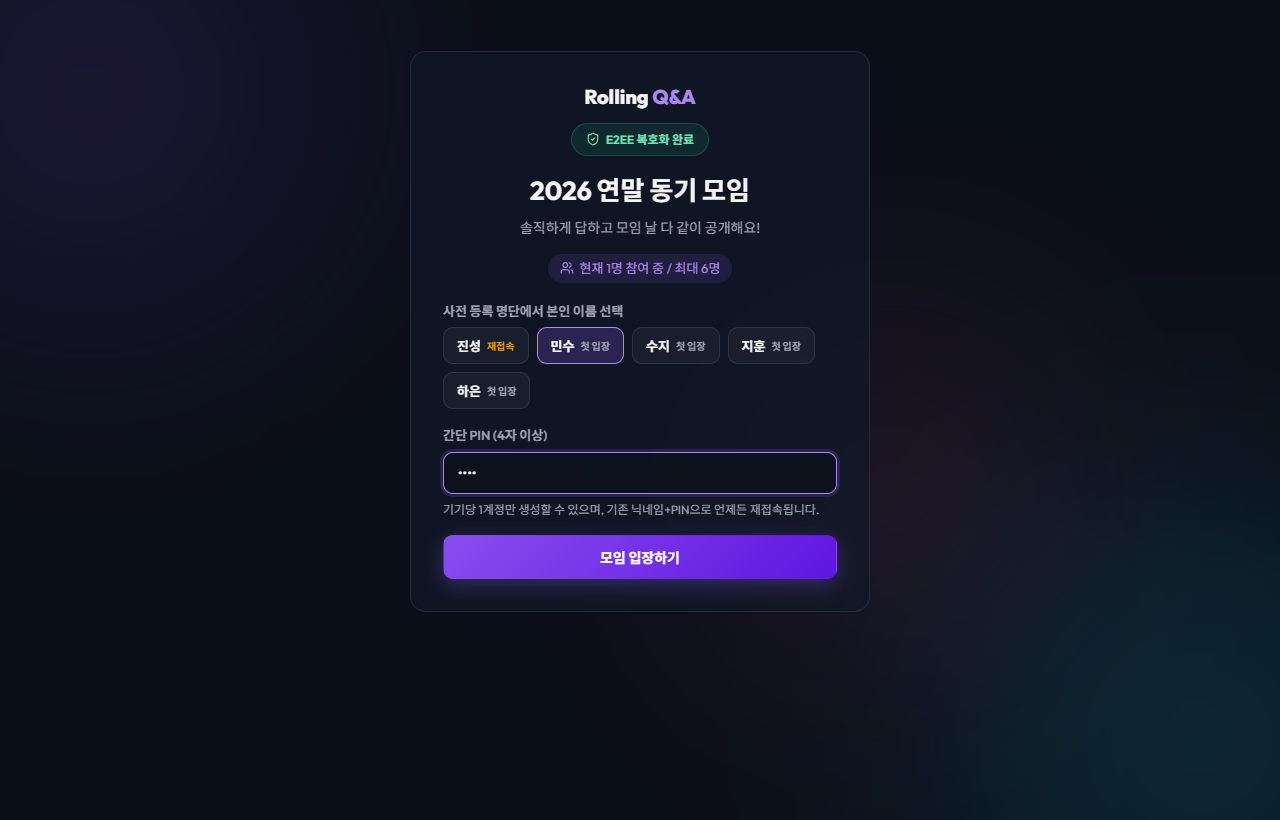
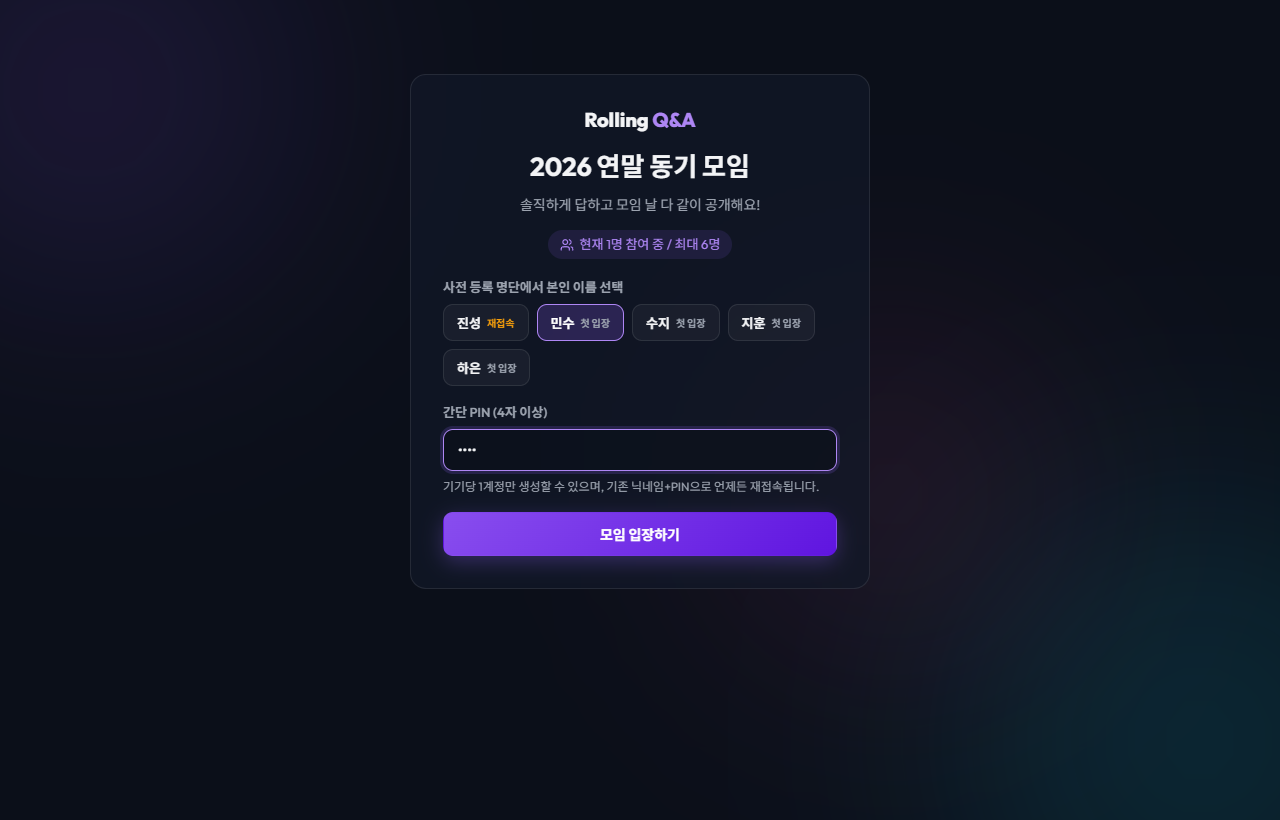
style: 불필요한 E2EE 상단 배지 제거 및 README 스크린샷 갱신

Changed region(s): [[0.3438, 0.0915, 0.6562, 0.7317]]

diff --git a/client/src/pages/RoomPage.jsx b/client/src/pages/RoomPage.jsx
@@ -380,9 +380,6 @@ export default function RoomPage() {
                     <button type="button" className="logo-btn auth-logo" onClick={() => navigate('/')}>
                         Rolling <span className="accent-text">Q&A</span>
                     </button>
-                    <div className="hero-badge" style={{ marginBottom: 14 }}>
-                        <ShieldCheck size={14} /> E2EE 복호화 완료
-                    </div>
                     <h1 className="join-room-title">{meta.title}</h1>
                     {meta.description && <p className="card-desc">{meta.description}</p>}
                     <p className="member-count-hint">
@@ -488,9 +485,6 @@ export default function RoomPage() {
                     >
                         Rolling <span className="accent-text">Q&A</span>
                     </button>
-                    <span className="e2ee-pill" title="종단간 암호화 적용 중">
-                        <ShieldCheck size={13} /> E2EE
-                    </span>
                 </div>
 
                 <div className="header-right">

diff --git a/client/src/pages/HomePage.jsx b/client/src/pages/HomePage.jsx
@@ -101,9 +101,6 @@ export default function HomePage() {
     return (
         <div className="home-wrapper">
             <div className="hero-brand">
-                <div className="hero-badge">
-                    <ShieldCheck size={15} /> 종단간 암호화 (E2EE) · 모임 전용 프라이빗 Q&A
-                </div>
                 <h1 className="hero-title clickable-logo" onClick={() => navigate('/')}>
                     Rolling <span className="accent-gradient">Q&A</span>
                 </h1>
